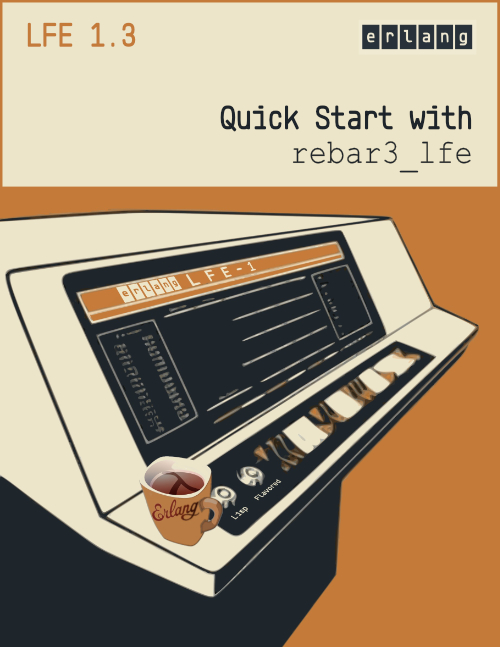
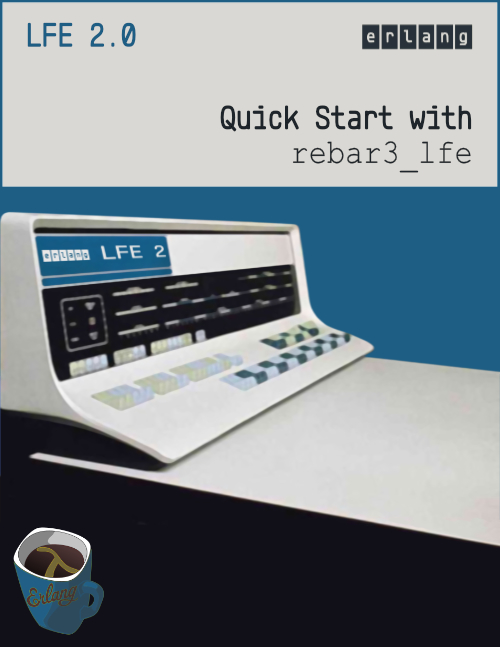
LFE 2.0 theme update.

diff --git a/theme/css/variables.css b/theme/css/variables.css
@@ -212,28 +212,28 @@
 }
 
 .lfe-pdp {
-    --bg: #ECE5C9;
+    --bg: #D9D8D4;
     --fg: #1E252B;
 
-    --sidebar-bg: #1E252B;
+    --sidebar-bg: #16161A;
     --sidebar-fg: #ECE5C9;
     --sidebar-non-existant: #505254;
-    --sidebar-active: #C47A39;
-    --sidebar-spacer: #45373a;
+    --sidebar-active: #377CA2;
+    --sidebar-spacer: #0B2D3F;
 
     --scrollbar: var(--sidebar-fg);
 
     --icons: #737480;
     --icons-hover: #1E252B;
 
-    --links: #C47A39;
+    --links: #377CA2;
 
-    --inline-code-color: #6e6b5e;
-    --inline-code-background-color: #DDD09C;
+    --inline-code-color: #16455E;
+    --inline-code-background-color: transparent;
 
     --theme-popup-bg: #DDD09C;
     --theme-popup-border: #b38f6b;
-    --theme-hover: #99908a;
+    --theme-hover: #B4BEC4;
 
     --quote-bg: hsl(60, 5%, 75%);
     --quote-border: hsl(60, 5%, 70%);
